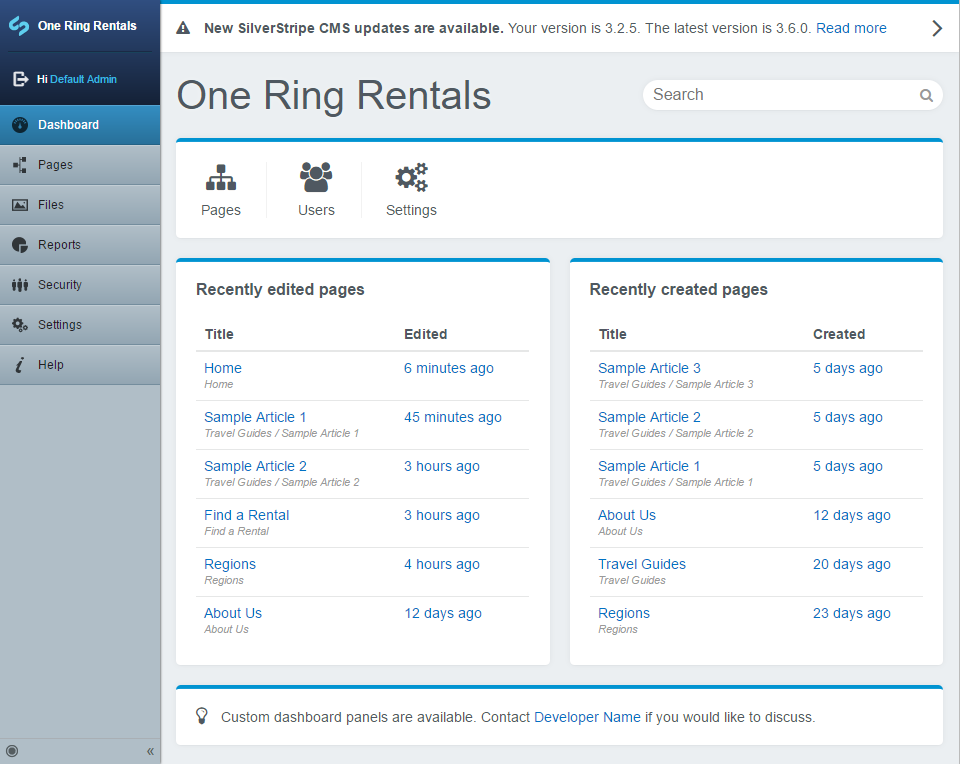
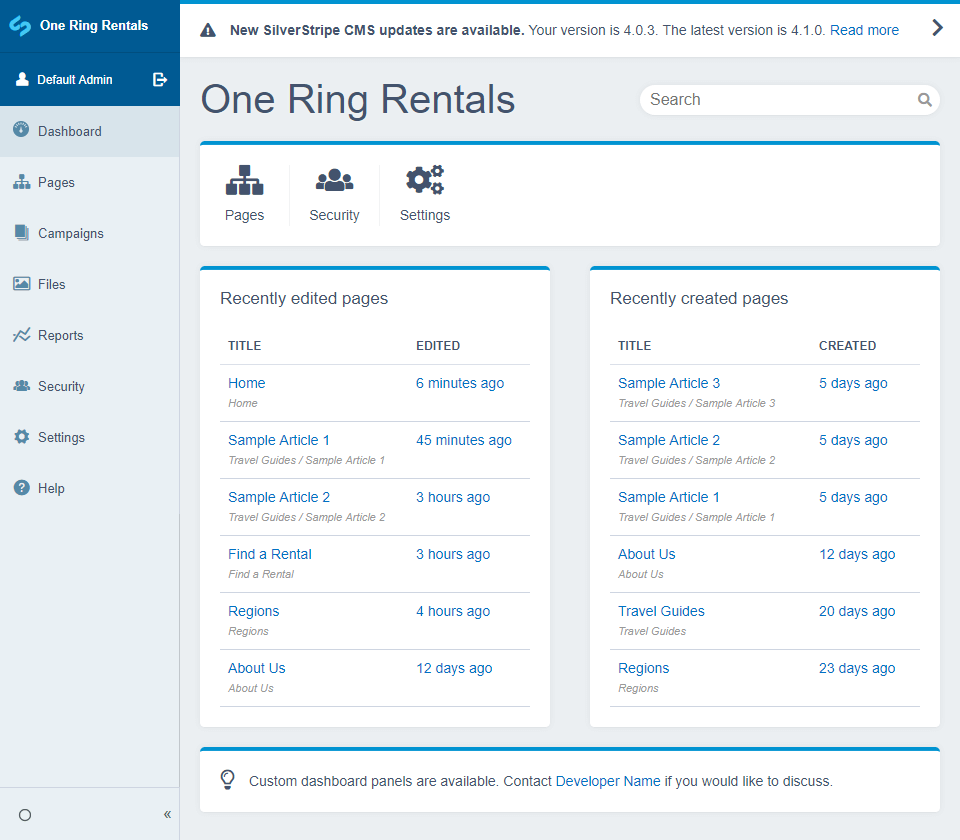
Documentation updates. Updating screenshot images. Updating parts of documentation. More documentation still needs updating. Update file search on new different file fields.

diff --git a/src/search/DashboardSearchResultFilePanel.php b/src/search/DashboardSearchResultFilePanel.php
@@ -9,7 +9,7 @@ use SilverStripe\Assets\File;
 class DashboardSearchResultFilePanel extends DashboardSearchResultPanel
 {
     protected $className = 'SilverStripe\Assets\File';
-    protected $searchFields = array('Title', 'Name', 'Content', 'Filename');
+    protected $searchFields = array('Title', 'Name', 'FileFilename');
     protected $sort = array('Title' => 'ASC');
     protected $exclusions = array('ClassName' => 'Folder');
 

diff --git a/docs/en/customisation-new-panels.md b/docs/en/customisation-new-panels.md
@@ -14,15 +14,21 @@ Say we have a custom `DataObject` named `Property` that is controlled through a 
 
 First we create a `dashboard-custom` folder in our root directory to house our custom dashboard code. To enable the `dashboard-custom` directory to be picked up by SilverStripe we must create a `_config` directory inside `dashboard-custom`.
 
-Next we create a new PHP file `RecentlyEditedPropertiesPanel.php` in `dashboard-custom/code/panels/`. In our `dashboard-custom/code/panels/RecentlyEditedPropertiesPanel.php` file we create a `RecentlyEditedPropertiesPanel` class, which extends `DashboardPanel`:
+Next we create a new PHP file `RecentlyEditedPropertiesPanel.php` in `dashboard-custom/src/Panels/`. In our `dashboard-custom/src/Panels/RecentlyEditedPropertiesPanel.php` file we create a `RecentlyEditedPropertiesPanel` class, which extends `DashboardPanel`:
 
 ```php
 <?php
+
+namespace Plastyk\Dashboard\Panels;
+
+use Plastyk\Dashboard\Model\DashboardPanel;
+use SilverStripe\Security\Permission;
+
 class RecentlyEditedPropertiesPanel extends DashboardPanel
 {
     public function canView($member = null)
     {
-        if (!Permission::check('CMS_ACCESS_PropertiesAdmin') || !class_exists('Property')) {
+        if (!Permission::checkMember($member, 'CMS_ACCESS_PropertiesAdmin') || !class_exists('Property')) {
             return false;
         }
 
@@ -51,7 +57,7 @@ In our `RecentlyEditedPropertiesPanel` class we have a `canView`, a `getData` an
 * `getData` fetches the results for the template.
 * `Results` returns a list of properties that have been edited in the last six months, limited to a maximum of eight results.
 
-Next we create a template for our custom panel. In `dashboard-custom/templates/panels/` we create a `RecentlyEditedPropertiesPanel.ss` template with the following code:
+Next we create a template for our custom panel. In `dashboard-custom/templates/Plastyk/Dashboard/Panels/` we create a `RecentlyEditedPropertiesPanel.ss` template with the following code:
 
 ```html
 <div class="dashboard-panel">
@@ -86,39 +92,43 @@ Next we create a template for our custom panel. In `dashboard-custom/templates/p
 </div>
 ```
 
-Next we create a custom `DashboardPanels.ss` template to add our new panel to the dashboard. Copy the original `DashboardPanels.ss` to `dashboard-custom/templates/DashboardPanels.ss` and add `$showPanel(RecentlyEditedPropertiesPanel)` to where we want the new panel to display:
+Next we create a custom `DashboardPanels.ss` template to add our new panel to the dashboard. Copy the original `DashboardPanels.ss` to `dashboard-custom/templates/DashboardPanels.ss` and add `$showPanel(Plastyk\Dashboard\Panels\RecentlyEditedPropertiesPanel)` to where we want the new panel to display:
 
 ```html
-$showPanel(UpdatePanel)
-
-$showPanel(SearchPanel)
-
-<h1>$SiteConfig.Title</h1>
+$showPanel(Plastyk\Dashboard\Panels\UpdatePanel)
 
 <div class="container-fluid">
 	<div class="row">
 		<div class="col-12">
-			$showPanel(QuickLinksPanel)
+			$showPanel(Plastyk\Dashboard\Panels\SearchPanel)
+
+			<h1>$SiteConfig.Title</h1>
 		</div>
 	</div>
 
-	<% if $canViewPanel(RecentlyEditedPropertiesPanel) || $canViewPanel(RecentlyEditedPagesPanel) || $canViewPanel(UsefulLinksPanel) %>
+	<div class="row">
+		<div class="col-12">
+			$showPanel(Plastyk\Dashboard\Panels\QuickLinksPanel)
+		</div>
+	</div>
+
+	<% if $canViewPanel(Plastyk\Dashboard\Panels\RecentlyEditedPropertiesPanel) || $canViewPanel(Plastyk\Dashboard\Panels\RecentlyEditedPagesPanel) || $canViewPanel(Plastyk\Dashboard\Panels\UsefulLinksPanel) %>
 	<div class="row">
 		<div class="col-4">
-			$showPanel(RecentlyEditedPropertiesPanel)
+			$showPanel(Plastyk\Dashboard\Panels\RecentlyEditedPropertiesPanel)
 		</div>
 		<div class="col-4">
-			$showPanel(RecentlyEditedPagesPanel)
+			$showPanel(Plastyk\Dashboard\Panels\RecentlyEditedPagesPanel)
 		</div>
 		<div class="col-4">
-			$showPanel(UsefulLinksPanel)
+			$showPanel(Plastyk\Dashboard\Panels\UsefulLinksPanel)
 		</div>
 	</div>
 	<% end_if %>
 
 	<div class="row">
 		<div class="col-12">
-			$showPanel(MoreInformationPanel)
+			$showPanel(Plastyk\Dashboard\Panels\MoreInformationPanel)
 		</div>
 	</div>
 </div>

diff --git a/docs/en/index.md b/docs/en/index.md
@@ -20,10 +20,10 @@ By default the `UpdatePanel` and `MoreInformationPanel` tell the user to contact
 
 We can also adjust the panel accent colour to match the colour scheme of the website.
 
-In our `mysite/_config/config.yml` add:
+In our `mysite/_config/mysite.yml` add:
 
 ```yml
-DashboardAdmin:
+Plastyk\Dashboard\Admin\DashboardAdmin:
   contact_email: 'email@example.com'
   contact_name: 'Developer Name'
   panel_accent_color: '#efbc2a'
@@ -38,7 +38,7 @@ For example, if the user searches for "contact" and only one result is found acr
 
 By default this functionality is turned off but can be enabled through a config variable per search class.
 
-In our `mysite/_config/config.yml` add the following to turn automatic redirection on for the `Page` class:
+In our `mysite/_config/mysite.yml` add the following to turn automatic redirection on for the `Page` class:
 
 ```yml
 Page:
@@ -53,10 +53,10 @@ Page:
 
 ## Subsite compatibility
 
-If using the [SilverStripe Subsites Module](https://github.com/silverstripe/silverstripe-subsites/) the dashboard menu item will not display on subsites by default. To fix this we can apply the `SubsiteMenuExtension` to our `DashboardAdmin`. In our `mysite/_config/config.yml` add:
+If using the [SilverStripe Subsites Module](https://github.com/silverstripe/silverstripe-subsites/) the dashboard menu item will not display on subsites by default. To fix this we can apply the `SubsiteMenuExtension` to our `DashboardAdmin`. In our `mysite/_config/mysite.yml` add:
 
 ```yml
-DashboardAdmin:
+Plastyk\Dashboard\Admin\DashboardAdmin:
   extensions:
-    - SubsiteMenuExtension
+    - SilverStripe\Subsites\Extensions\SubsiteMenuExtension
 ```

diff --git a/docs/en/customisation-extra-search-panels.md b/docs/en/customisation-extra-search-panels.md
@@ -14,7 +14,7 @@ Say we have a custom `DataObject` named `Property`. We would like to search for 
 
 First we create a `dashboard-custom` folder in our root directory to house our custom dashboard code. To enable the `dashboard-custom` directory to be picked up by SilverStripe we must create a `_config` directory inside `dashboard-custom`.
 
-Next we create a new PHP file `DashboardSearchResultPropertyPanel.php` in `dashboard-custom/code/search/`. In our `dashboard-custom/code/search/DashboardSearchResultPropertyPanel.php` file we create a `DashboardSearchResultPropertyPanel` class, which extends `DashboardSearchResultPanel`:
+Next we create a new PHP file `DashboardSearchResultPropertyPanel.php` in `dashboard-custom/src/search/`. In our `dashboard-custom/src/search/DashboardSearchResultPropertyPanel.php` file we create a `DashboardSearchResultPropertyPanel` class, which extends `DashboardSearchResultPanel`:
 
 ```php
 <?php

diff --git a/docs/en/customisation-quicklinks.md b/docs/en/customisation-quicklinks.md
@@ -65,9 +65,9 @@ We can now see we have a link to the properties admin and a link to create a new
 
 We can improve on this code to check if the user has permission to view the properties section before displaying the buttons to the user.
 
-First we create a `QuickLinksPanelExtension.php` extension class in `dashboard-custom/code/extensions/`.
+First we create a `QuickLinksPanelExtension.php` extension class in `dashboard-custom/src/extensions/`.
 
-In our `dashboard-custom/code/extensions/QuickLinksPanelExtension.php` class we call the `QuickLinksPanel` `updateData` hook to add in our permission check:
+In our `dashboard-custom/src/extensions/QuickLinksPanelExtension.php` class we call the `QuickLinksPanel` `updateData` hook to add in our permission check:
 
 ```php
 <?php
